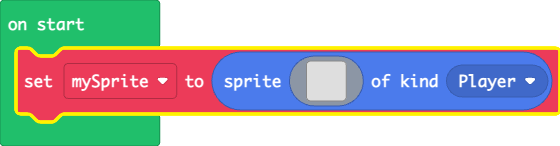
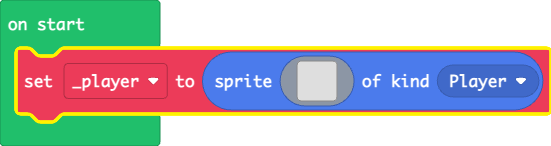
Update main.blocks, main.ts

diff --git a/main.ts b/main.ts
@@ -1,4 +1,4 @@
-let mySprite = sprites.create(img`
+let _player = sprites.create(img`
     . . . . . . . . . . . . . . . . 
     . . . . . . . . . . . . . . . . 
     . . . . . . . . . . . . . . . . 
